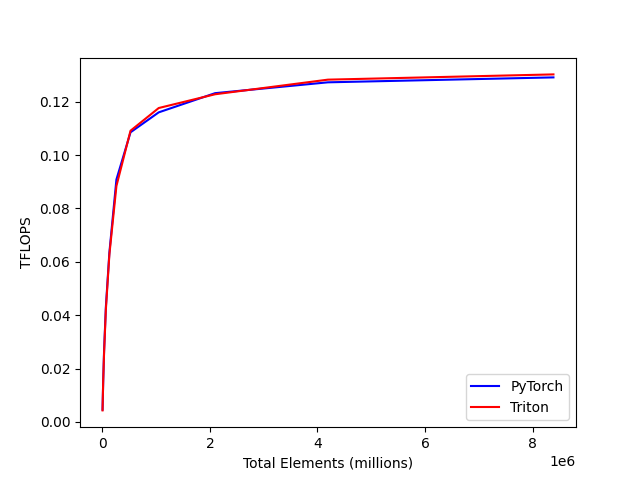
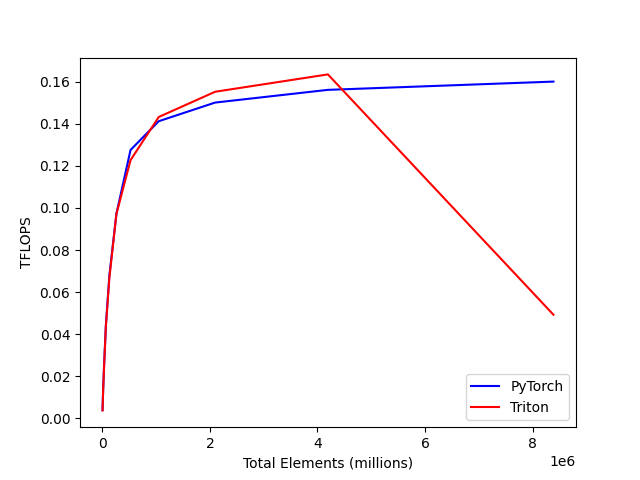
just realized we've not been doing bwd benchmarks at all

diff --git a/autograd_triton/benchmarking.py b/autograd_triton/benchmarking.py
@@ -14,7 +14,7 @@ BATCH, N_HEADS, SEQ_LEN, DIM = 32, 8, 1024, 64 # LOWER THESE IF YOU DON'T HAVE E
 
 
 addition_configs = []
-for mode in ["fwd", "bwd"]:
+for mode in ["fwd"]:
     for broadcasting in [True, False]:
         addition_configs.append(
             triton.testing.Benchmark(
@@ -57,6 +57,10 @@ def benchmark_addition(total_elements, provider,
     else:
         triton_inputs = [TritonTensor(x) for x in inputs]
         fn = lambda: triton_fn(*triton_inputs)
+    if mode == "bwd":
+        O = fn()
+        dO = torch.randn_like(O)
+        fn = lambda: O.backward(dO)#, retain_graph=True) # since our TritonTensor.backward() doesn't have argument retain_graph
     
     # Benchmark
     ms = triton.testing.do_bench(fn)
@@ -68,7 +72,7 @@ def benchmark_addition(total_elements, provider,
 
 # Create "sub" configs
 sub_configs = []
-for mode in ["fwd", "bwd"]:
+for mode in ["fwd"]:
     for broadcasting in [True, False]:
         sub_configs.append(
             triton.testing.Benchmark(
@@ -106,7 +110,7 @@ def benchmark_sub(total_elements, provider,
 
 # Create "mul" configs
 mul_configs = []
-for mode in ["fwd", "bwd"]:
+for mode in ["fwd"]:
     for broadcasting in [True, False]:
         mul_configs.append(
             triton.testing.Benchmark(
@@ -144,7 +148,7 @@ def benchmark_mul(total_elements, provider,
 
 # Create "div" configs
 div_configs = []
-for mode in ["fwd", "bwd"]:
+for mode in ["fwd"]:
     for broadcasting in [True, False]:
         div_configs.append(
             triton.testing.Benchmark(
@@ -182,7 +186,7 @@ def benchmark_div(total_elements, provider,
 
 # Create "matmul" configs
 matmul_configs = []
-for mode in ["fwd", "bwd"]:
+for mode in ["fwd"]:
     for broadcasting in [True, False]:
         div_configs.append(
             triton.testing.Benchmark(
